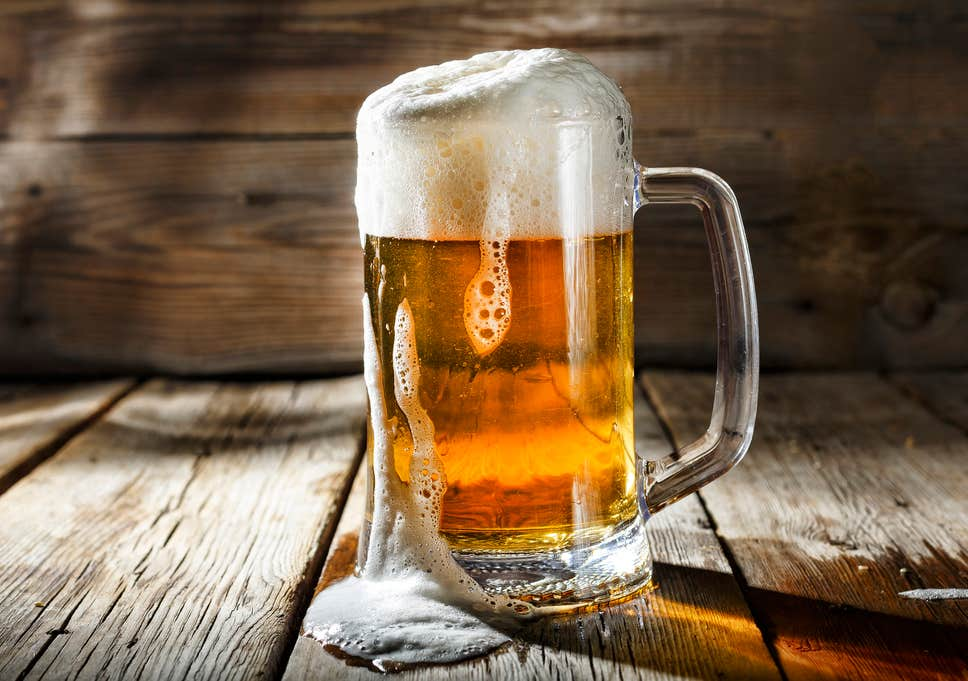
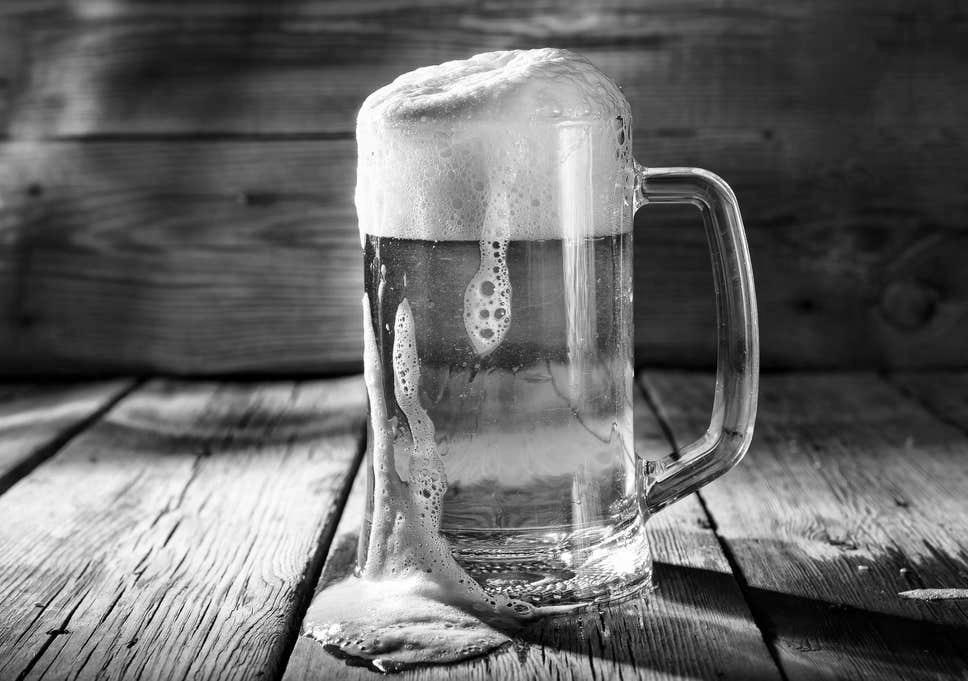
Terminado hasta parte 3

diff --git a/src/Program/Program.cs b/src/Program/Program.cs
@@ -8,6 +8,29 @@ namespace CompAndDel
     {
         static void Main(string[] args)
         {
+            //Obtengo la imagen a la cual le voy a aplicar los filtros
+            PictureProvider xProvider= new PictureProvider();
+            IPicture xPicture=xProvider.GetPicture(@"luke.jpg");
+            
+            //Creo los filtros y los pipes. Los relaciono entre ellos
+            IPipe xPipeNull=new PipeNull();
+            
+            IFilter xFilterNegative=new FilterNegative();
+            IPipe xPipeSerial1=new PipeSerial(xFilterNegative,xPipeNull);
+            
+            IFilter xFilterTwitter=new FilterTwitter();
+            IPipe xPipeSerialTwitter=new PipeSerial(xFilterTwitter,xPipeSerial1);
+
+            IFilter xFilterSaver=new FilterSaver();
+            IPipe xPipeSerial2=new PipeSerial(xFilterSaver,xPipeSerialTwitter);
+            
+            IFilter xFilterGreyscale=new FilterGreyscale();
+            IPipe xPipeSerial3=new PipeSerial(xFilterGreyscale,xPipeSerial2);
+            
+            IPicture xImagen=xPipeSerial3.Send(xPicture);
+            
+            
+            
         }
     }
 }

diff --git a/src/Library/Filters/FilterTwitter.cs b/src/Library/Filters/FilterTwitter.cs
@@ -1,0 +1,16 @@
+using System;
+using System.Drawing;
+using TwitterUCU;
+
+namespace CompAndDel.Filters
+{
+    public class FilterTwitter : IFilter
+    {
+        public IPicture Filter(IPicture image)
+        {
+            TwitterImage xImagenTwitter=new TwitterImage();
+            xImagenTwitter.PublishToTwitter("NM",@"luke.jpg");
+            return image;
+        }
+    }
+}

diff --git a/src/Library/Filters/FilterSaver.cs b/src/Library/Filters/FilterSaver.cs
@@ -1,0 +1,16 @@
+using System;
+using System.Drawing;
+
+namespace CompAndDel.Filters
+{
+    public class FilterSaver : IFilter
+    {
+        public IPicture Filter(IPicture image)
+        {
+            PictureProvider xProvider=new PictureProvider();
+            xProvider.SavePicture(image,@"luke.jpg");
+            return image;
+        }
+    }
+
+}
